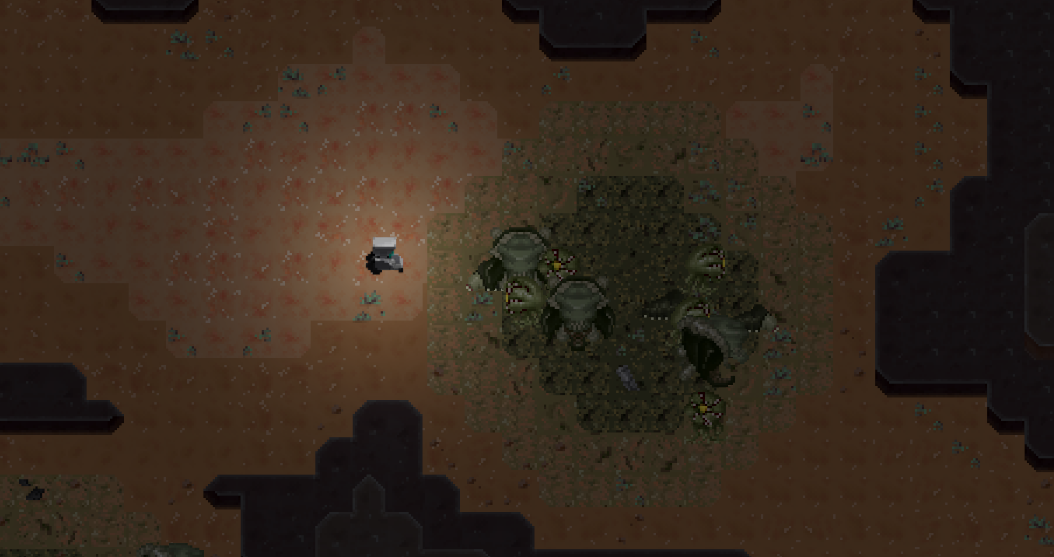
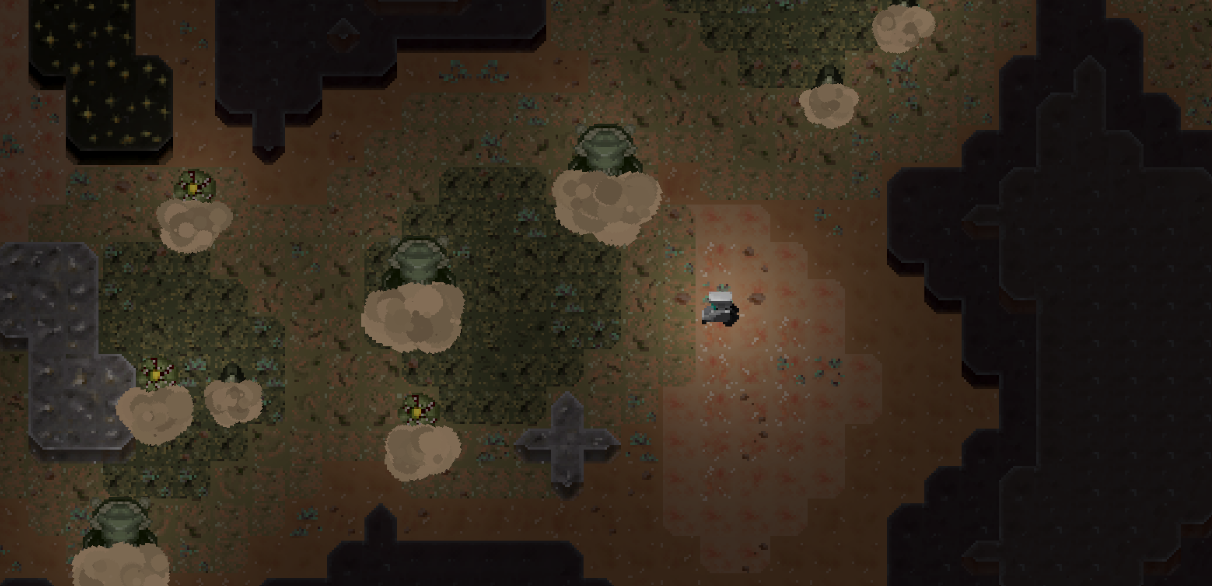
Finished big updates

diff --git a/Assets/Scripts/UI/Noise/NoiseSliderUI.cs b/Assets/Scripts/UI/Noise/NoiseSliderUI.cs
@@ -69,11 +69,11 @@ public class NoiseSliderUI : MonoBehaviour
         {
             noiseZoneText.text = zone switch
             {
-                NoiseManager.NoiseZone.Safe => "안전",
-                NoiseManager.NoiseZone.Caution => "주의",
-                NoiseManager.NoiseZone.Warning => "경고",
-                NoiseManager.NoiseZone.Danger => "위험",
-                _ => "안전"
+                NoiseManager.NoiseZone.Safe => "소음 : 안전",
+                NoiseManager.NoiseZone.Caution => "소음 : 주의",
+                NoiseManager.NoiseZone.Warning => "소음 : 경고",
+                NoiseManager.NoiseZone.Danger => "소음 : 위험",
+                _ => "소음 : 안전"
             };
             noiseZoneText.color = targetColor;
         }